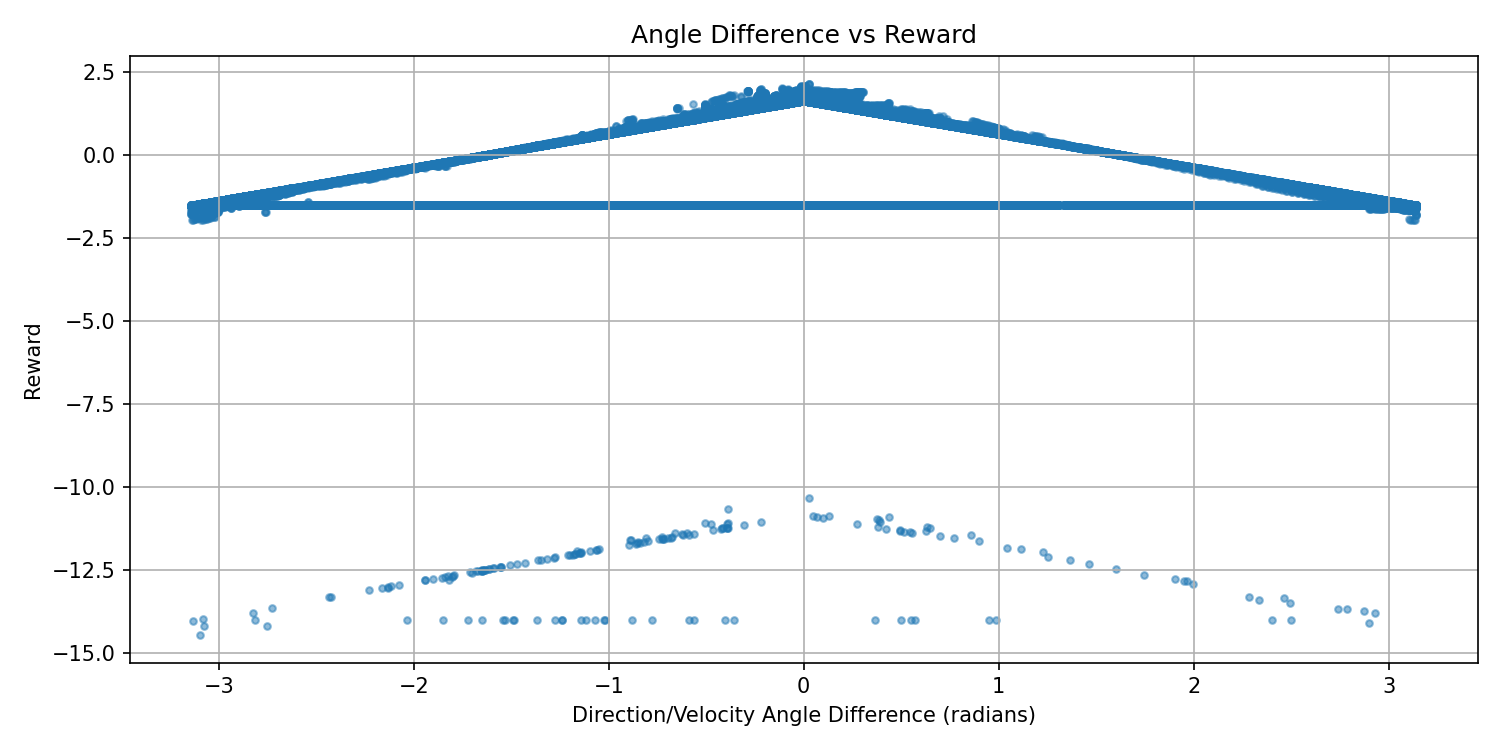
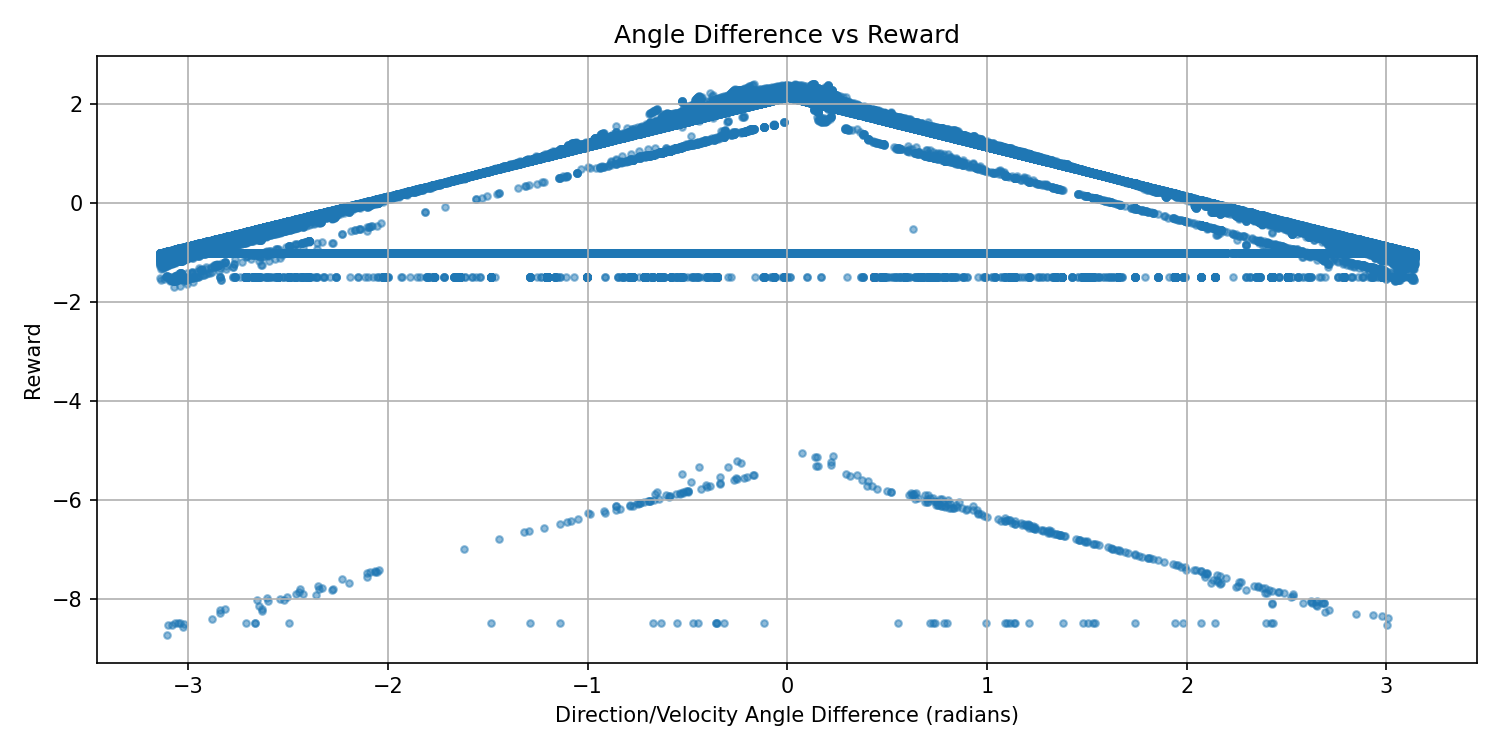
trying to make ppo work p2

diff --git a/utils/ppo_distances.py b/utils/ppo_distances.py
@@ -1,0 +1,60 @@
+from dataclasses import dataclass
+import json
+from pathlib import Path
+
+
+@dataclass
+class Plottable():
+    intersections: list[float]
+    step: int
+    log_file: Path
+    log_line: int
+
+
+def log_to_plottable(log_file: Path, log_line: int, log: dict) -> Plottable:
+    step: int = log["step"]
+    intersections: list[float] = log["intersections"]
+    return Plottable(
+        intersections=intersections,
+        step=step,
+        log_file=log_file,
+        log_line=log_line
+    )
+
+def collect_logs(path: Path = Path("logs")) -> list[Plottable]:
+    result: list[Plottable] = []
+    for file in path.glob("ppo_state_log_*.json"):
+        if not file.is_file():
+            continue
+        with file.open("r", encoding="utf-8") as f:
+            for i, line in enumerate(f):
+                line = line.strip()
+                if not line:
+                    continue
+                try:
+                    log = json.loads(line)
+                    result.append(log_to_plottable(file, i, log))
+                except (json.JSONDecodeError, KeyError, TypeError):
+                    continue  # Skip malformed or incomplete lines
+    return result
+
+
+if __name__ == "__main__":
+    intersections: list[float] = []
+    data = collect_logs()
+    for d in data:
+        intersections.extend(d.intersections)
+    
+    small_dist = 0.01
+    small_dists_count = 0
+    for d in data:
+        for intersection in d.intersections:
+            if intersection > small_dist:
+                continue
+            small_dists_count += 1
+    
+    print("min", min(intersections))
+    print("avg", sum(intersections) / len(intersections))
+    print("max", max(intersections))
+    print("total", len(intersections))
+    print(f"smaller than {small_dist}", small_dists_count)

diff --git a/agent/ppo/env.py b/agent/ppo/env.py
@@ -137,7 +137,7 @@ class Env(gym.Env[ObservationT, ActionT]):
             for ray in self.rays
         ]
         
-        ray_hits = calculate_ray_hits(rays, self.chosen_walls)
+        ray_hits = calculate_ray_hits(rays, self.level.walls)
         return ray_hits
     
     def _upd_intersections(self, ray_hits: list[RayHit]):
@@ -181,7 +181,7 @@ class Env(gym.Env[ObservationT, ActionT]):
                 midline_candidate_0, midline_candidate_1 = cut_segs(midline, intersection)
                 processed_midline = select_similar_angle_seg(prev_midline, midline_candidate_0, midline_candidate_1)
             else:
-                parallel_midline = orient_same_if_parallel(prev_midline, midline, 2 * math.pi)
+                parallel_midline = orient_same_if_parallel(prev_midline, midline, math.pi/2)
                 if parallel_midline:
                     processed_midline = parallel_midline
                 else: 
@@ -203,8 +203,6 @@ class Env(gym.Env[ObservationT, ActionT]):
     
     def _upd_state(self) -> None:
         self._upd_car_state()
-        decided_quad = self.car.decide_quad(self.level)
-        self.chosen_walls = get_chosen_ones(self.level.walls, self.level.boolean_walls, decided_quad)
         ray_hits = self._calc_ray_hits()
         self._upd_intersections(ray_hits)
 
@@ -250,7 +248,7 @@ class Env(gym.Env[ObservationT, ActionT]):
         self._upd_state()
 
         terminated: bool = False
-        if self.car.intersects_line(self.chosen_walls):
+        if self.car.intersects_line(self.level.walls):
             crashed = True
             self.state.crashed = 1
             # TODO: Rewind

diff --git a/ClassesML2.py b/ClassesML2.py
@@ -87,15 +87,11 @@ class Level:
         self.walls.append(Line(x1, y1, x2, y2))
     def reset_quad_tree(self):
         self.boolean_walls=quad_tree_from_list(self.walls,self)
-    def draw(self, surface, checkers_truth=True,chosen_walls=None):
+    def draw(self, surface, checkers_truth=True):
         surface.fill(self.BACKGROUND_COLOR)
         # Draw all walls of the track
-        if chosen_walls is None:
-            for wall in self.walls:
-                wall.draw(surface,([0,255,255]))
-        else:
-            for wall in chosen_walls:
-                wall.draw(surface,([0,255,255]))
+        for wall in self.walls:
+            wall.draw(surface,([0,255,255]))
 
         # if checkers_truth:
         #     for checkpoint in self.checkpoints:
@@ -179,14 +175,6 @@ class Car:
             elif x >= width / 2 and y >= height / 2:
                 quads[3]=True
         return quads
-
-    def max_velocity(self):
-        v_max: float = self.pull / self.k
-        return {
-            "v": v_max,
-            "x": v_max * math.cos(self.ori),
-            "y": v_max * math.sin(self.ori),
-        }
 
     def show(self, screen):
         cos_ori = math.cos(self.ori)

diff --git a/agent/ppo/reward.py b/agent/ppo/reward.py
@@ -16,10 +16,10 @@ class Rewarder(ABC):
 @dataclass
 class RewarderConfig:
     min_rewarded_velocity = 0.005
-    max_rewarded_velocity = 0.3
+    max_rewarded_velocity = 0.25
     velocity_reward_scale: float = 1
     angle_reward_scale: float = 1
-    crash_penalty: float = -12.5
+    crash_penalty: float = -7
 
 class DefaultRewarder(Rewarder):
     def __init__(self, config: RewarderConfig = RewarderConfig()):
@@ -51,14 +51,16 @@ class DefaultRewarder(Rewarder):
                 state.car_velocity_y * state.direction_sin
             )
             
-            
             direction_reward = self.config.angle_reward_scale * (math.pi - abs(angle_diff))
             
             reward += direction_reward + forward_velocity * 2
         
+        if min(state.intersections) < 0.01:
+            reward += -0.5
+            
         # --- Crash Penalty ---
         if state.crashed == 1:
             reward += self.config.crash_penalty
         
         # --- Stability: Clip reward to reasonable bounds ---
-        return reward - 2.5
+        return reward - 2

diff --git a/agent/ppo/trainer.py b/agent/ppo/trainer.py
@@ -71,7 +71,7 @@ class PPOTrainer(BaseTrainer):
                 policy_kwargs=policy_kwargs,
                 ent_coef=0.01, # Entropy coefficient for exploration. Default 0
                 vf_coef=0.7, # increased since value function wasn't learning
-                learning_rate=1e-3,
+                learning_rate=3e-4,
                 n_steps=2048,
                 batch_size=64,
                 n_epochs=self.args.epochs,

diff --git a/agent/ppo/runner.py b/agent/ppo/runner.py
@@ -18,7 +18,7 @@ def render(screen: SurfaceType, clock: Clock, font: Font, env: Env):
     pygame.display.flip()
     clock.tick(env.FPS)
 
-    env.level.draw(screen, chosen_walls=env.chosen_walls)
+    env.level.draw(screen)
     env.car.draw(screen)
     if env.min_opposite_hits:
         hit_a, hit_b = env.min_opposite_hits
